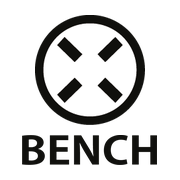
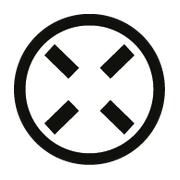
[V.0.72.039] feat(mobile): 스와이프 이동(뒤로가기·탭 이동), 바로가기 아이콘을 마크만으로 변경

diff --git a/frontend/src/features/mobile/useSwipeNavigation.ts b/frontend/src/features/mobile/useSwipeNavigation.ts
@@ -1,0 +1,89 @@
+import { useEffect } from "react";
+import { useLocation, useNavigate } from "react-router-dom";
+import { useAuth } from "../../context/useAuth";
+import { logDebug } from "../../lib/logger";
+import { tabPaths } from "./MobileTabBar";
+
+export type SwipeKind = "back" | "next" | "prev" | null;
+
+const EDGE_PX = 28; // 화면 왼쪽 가장자리로 인정하는 폭 (뒤로가기 스와이프의 시작점)
+const MIN_DX = 70;
+const MAX_MS = 900;
+
+/**
+ * 손가락이 움직인 거리로 어떤 스와이프인지 판단한다.
+ * - back: 왼쪽 가장자리에서 시작해 오른쪽으로 민다 (이전 화면)
+ * - next / prev: 가로로 충분히 길고 세로보다 확실히 가로일 때 왼쪽으로 밀면 다음 탭, 오른쪽으로 밀면 이전 탭
+ * 세로 스크롤 중 살짝 비껴 움직인 것은 스와이프로 보지 않는다.
+ */
+export function classifySwipe(startX: number, startY: number, endX: number, endY: number, ms: number): SwipeKind {
+  const dx = endX - startX;
+  const dy = endY - startY;
+  if (ms > MAX_MS || Math.abs(dx) < MIN_DX || Math.abs(dx) < Math.abs(dy) * 2) return null;
+  if (dx > 0 && startX <= EDGE_PX) return "back";
+  return dx < 0 ? "next" : "prev";
+}
+
+/** 스와이프를 시작한 곳이 입력칸이거나 옆으로 스크롤되는 영역이면 화면 이동으로 쓰지 않는다 (글 선택·표 스크롤과 겹치지 않게). */
+export function isSwipeBlocked(target: EventTarget | null): boolean {
+  let el = target instanceof Element ? target : null;
+  while (el && el !== document.body) {
+    if (el.matches("input, textarea, select, [data-no-swipe]")) return true;
+    if (el.scrollWidth > el.clientWidth + 1 && /(auto|scroll)/.test(getComputedStyle(el).overflowX)) return true;
+    el = el.parentElement;
+  }
+  return false;
+}
+
+/**
+ * 모바일 화면의 스와이프 이동: 왼쪽 가장자리에서 밀면 뒤로, 하단 탭(홈·결재·서류·알림) 화면에서는 좌우로 밀어 옆 탭으로 간다.
+ * backTo 가 없으면(홈) 뒤로가기 스와이프는 하지 않는다.
+ */
+export function useSwipeNavigation(backTo?: string) {
+  const navigate = useNavigate();
+  const { pathname } = useLocation();
+  const { user } = useAuth();
+  const isSiteAdmin = user?.role === "site_admin";
+
+  useEffect(() => {
+    const tabs = tabPaths(isSiteAdmin);
+    let start: { x: number; y: number; t: number; blocked: boolean } | null = null;
+
+    const onStart = (e: TouchEvent) => {
+      if (e.touches.length !== 1) {
+        start = null;
+        return;
+      }
+      const t = e.touches[0];
+      start = { x: t.clientX, y: t.clientY, t: Date.now(), blocked: isSwipeBlocked(e.target) };
+    };
+    const onEnd = (e: TouchEvent) => {
+      const s = start;
+      start = null;
+      if (!s || s.blocked || e.changedTouches.length === 0) return;
+      const t = e.changedTouches[0];
+      const kind = classifySwipe(s.x, s.y, t.clientX, t.clientY, Date.now() - s.t);
+      if (!kind) return;
+      if (kind === "back") {
+        if (!backTo) return;
+        logDebug("MobileSwipe", `뒤로가기 스와이프: ${pathname} → ${backTo}`);
+        navigate(backTo);
+        return;
+      }
+      const i = tabs.indexOf(pathname);
+      if (i < 0) return; // 탭 화면이 아니면 좌우 이동은 하지 않는다
+      const to = tabs[kind === "next" ? i + 1 : i - 1];
+      if (!to) return;
+      logDebug("MobileSwipe", `탭 스와이프(${kind}): ${pathname} → ${to}`);
+      navigate(to);
+    };
+
+    document.addEventListener("touchstart", onStart, { passive: true });
+    document.addEventListener("touchend", onEnd, { passive: true });
+    document.addEventListener("touchcancel", () => (start = null), { passive: true });
+    return () => {
+      document.removeEventListener("touchstart", onStart);
+      document.removeEventListener("touchend", onEnd);
+    };
+  }, [navigate, pathname, backTo, isSiteAdmin]);
+}

diff --git a/frontend/src/features/mobile/MobileSchedulePage.tsx b/frontend/src/features/mobile/MobileSchedulePage.tsx
@@ -91,7 +91,7 @@ export function MobileSchedulePage() {
     if (!start) return;
     const dx = e.changedTouches[0].clientX - start.x;
     const dy = e.changedTouches[0].clientY - start.y;
-    if (Math.abs(dx) > 60 && Math.abs(dx) > Math.abs(dy) * 1.5) {
+    if (Math.abs(dx) > 50 && Math.abs(dx) > Math.abs(dy) * 1.2) {
       logDebug("MobileSchedule", `스와이프: ${dx < 0 ? "다음 달" : "이전 달"}`);
       shiftMonth(dx < 0 ? 1 : -1);
     }
@@ -123,7 +123,7 @@ export function MobileSchedulePage() {
               <ChevronRight size={20} />
             </button>
           </div>
-          <div onTouchStart={handleTouchStart} onTouchEnd={handleTouchEnd}>
+          <div onTouchStart={handleTouchStart} onTouchEnd={handleTouchEnd} style={{ touchAction: "pan-y" }}>
             <div className="grid grid-cols-7 mb-1">
               {WEEKDAY_LABELS.map((w, i) => (
                 <span key={w} className={`text-center text-[11px] py-1 ${i === 0 ? "text-danger" : i === 6 ? "text-primary" : "text-text-muted"}`}>

diff --git a/frontend/src/features/mobile/useSwipeNavigation.test.ts b/frontend/src/features/mobile/useSwipeNavigation.test.ts
@@ -1,0 +1,17 @@
+import { describe, expect, it } from "vitest";
+import { classifySwipe } from "./useSwipeNavigation";
+
+describe("classifySwipe", () => {
+  it("왼쪽 가장자리에서 오른쪽으로 밀면 뒤로가기", () => {
+    expect(classifySwipe(10, 300, 150, 310, 200)).toBe("back");
+  });
+  it("가장자리가 아닌 곳에서 오른쪽으로 밀면 이전 탭, 왼쪽으로 밀면 다음 탭", () => {
+    expect(classifySwipe(150, 300, 260, 305, 200)).toBe("prev");
+    expect(classifySwipe(260, 300, 120, 305, 200)).toBe("next");
+  });
+  it("짧거나, 세로로 더 많이 움직이거나, 너무 느리면 스와이프가 아니다", () => {
+    expect(classifySwipe(150, 300, 190, 300, 100)).toBeNull();
+    expect(classifySwipe(150, 300, 260, 420, 200)).toBeNull();
+    expect(classifySwipe(150, 300, 300, 300, 1500)).toBeNull();
+  });
+});

diff --git a/frontend/src/features/mobile/MobileLayout.tsx b/frontend/src/features/mobile/MobileLayout.tsx
@@ -2,6 +2,7 @@ import { ChevronLeft } from "lucide-react";
 import type { ReactNode } from "react";
 import { useNavigate } from "react-router-dom";
 import { MobileTabBar } from "./MobileTabBar";
+import { useSwipeNavigation } from "./useSwipeNavigation";
 import { useViewportLock } from "./useViewportLock";
 
 interface MobileLayoutProps {
@@ -18,6 +19,7 @@ interface MobileLayoutProps {
 export function MobileLayout({ title, backTo = "/m", right, hideTabs = false, children }: MobileLayoutProps) {
   const navigate = useNavigate();
   useViewportLock();
+  useSwipeNavigation(backTo);
   return (
     <div className="min-h-screen bg-bg">
       <header className="sticky top-0 z-10 bg-bg/90 backdrop-blur border-b border-border pt-[env(safe-area-inset-top)]">

diff --git a/frontend/src/features/mobile/MobileHome.tsx b/frontend/src/features/mobile/MobileHome.tsx
@@ -16,6 +16,7 @@ import { useApprovalQueue } from "./approvalQueue";
 import { MobileCard } from "./MobileLayout";
 import { MobileTabBar } from "./MobileTabBar";
 import { setForcePc } from "./mobileMode";
+import { useSwipeNavigation } from "./useSwipeNavigation";
 import { useViewportLock } from "./useViewportLock";
 
 interface MenuTile {
@@ -33,6 +34,7 @@ export function MobileHome() {
   const navigate = useNavigate();
   const dialog = useDialog();
   useViewportLock();
+  useSwipeNavigation(); // 홈은 뒤로 갈 곳이 없어 옆 탭 이동만
   const [today, setToday] = useState<AttendanceRecord | null | undefined>(undefined);
   const [isBusy, setIsBusy] = useState(false);
   const [error, setError] = useState<string | null>(null);

diff --git a/frontend/src/features/mobile/MobileTabBar.tsx b/frontend/src/features/mobile/MobileTabBar.tsx
@@ -20,6 +20,11 @@ const TABS: TabDef[] = [
   { to: "/m/notifications", label: "알림", icon: Bell, siteAdmin: true },
 ];
 
+/** 하단 탭 화면의 경로 (보이는 순서대로). 스와이프로 옆 탭에 갈 때 쓴다. */
+export function tabPaths(isSiteAdmin: boolean): string[] {
+  return TABS.filter((t) => !isSiteAdmin || t.siteAdmin).map((t) => t.to);
+}
+
 /** 모바일 화면 하단 탭: 홈·결재·서류·알림. 결재·알림은 처리할 개수를 숫자로 보여 준다. */
 export function MobileTabBar() {
   const { user } = useAuth();

diff --git a/CHANGELOG.md b/CHANGELOG.md
@@ -4,6 +4,10 @@
 
 ## V.0.72.039 — 2026-11-05
 
+### 모바일 스와이프 이동, 바로가기 아이콘 마크만 (2026-11-05 추가, 같은 V.0.72.039, 화면만 변경)
+- **스와이프**: 화면 왼쪽 가장자리에서 오른쪽으로 밀면 이전 화면, 하단 탭(홈·결재·서류·알림) 화면에서는 좌우로 밀어 옆 탭으로 이동한다. 입력칸·옆으로 스크롤되는 영역에서 시작한 동작은 무시한다. 일정 화면의 달 넘기기 스와이프는 인식 기준을 느슨하게 하고 가로 동작을 브라우저가 가로채지 않게 했다. `useSwipeNavigation.ts`.
+- **아이콘**: 홈 화면 바로가기 아이콘에서 BENCH 글씨를 빼고 원형 마크만 크게(84%) 넣었다. 이미 추가한 폰은 바로가기를 지웠다가 다시 추가해야 바뀐다. 아이폰 앱(`mobile/`) 아이콘 원본 `mobile/assets/icon-only.png` 추가.
+
 ### 모바일 홈 메뉴 아이콘 색 정리 (2026-11-05 추가, 같은 V.0.72.039, 화면만 변경)
 - 일정·알림·메신저가 모두 주황이라 구분이 어렵던 것을 고쳐 8칸이 모두 다른 색이 되게 했다: 연차 초록, 공지 보라, 일정 하늘, 거래처 파랑, 서류 주황, 결재 청록, 알림 장미, 메신저 노랑. 기본 라이트·슬레이트 다크·비비드·시크 모두 반영(시크는 은은한 톤 차이 + 금색은 메신저만). 알림 배지에 흰 테두리를 둘렀다. `MobileHome.tsx`, `mobileTheme.ts`, `index.css`.
 

diff --git a/mobile/README.md b/mobile/README.md
@@ -13,6 +13,14 @@ npx cap open ios                                        # Xcode 열기
 ```
 Xcode 에서: App 타깃 → Signing & Capabilities → Team 에 개발자 계정 선택, Bundle Identifier 확인(`kr.co.bench.erp`) → 아이폰 연결 후 Run.
 
+## 앱 아이콘
+`assets/icon-only.png`(1024×1024, 흰 바탕에 원형 마크)가 앱 아이콘 원본이다. `cap add ios` 뒤에 한 번 실행하면 iOS 아이콘이 만들어진다.
+```
+npm install --save-dev @capacitor/assets
+npx capacitor-assets generate --ios
+```
+iOS 가 모서리를 알아서 둥글게 깎으므로 원본은 네모 그대로 둔다(투명 배경 금지).
+
 ## http(HTTPS 없음) 로 접속하려면
 iOS 는 기본적으로 http 통신을 막습니다(ATS). `ios/App/App/Info.plist` 에 아래를 추가하세요.
 ```
